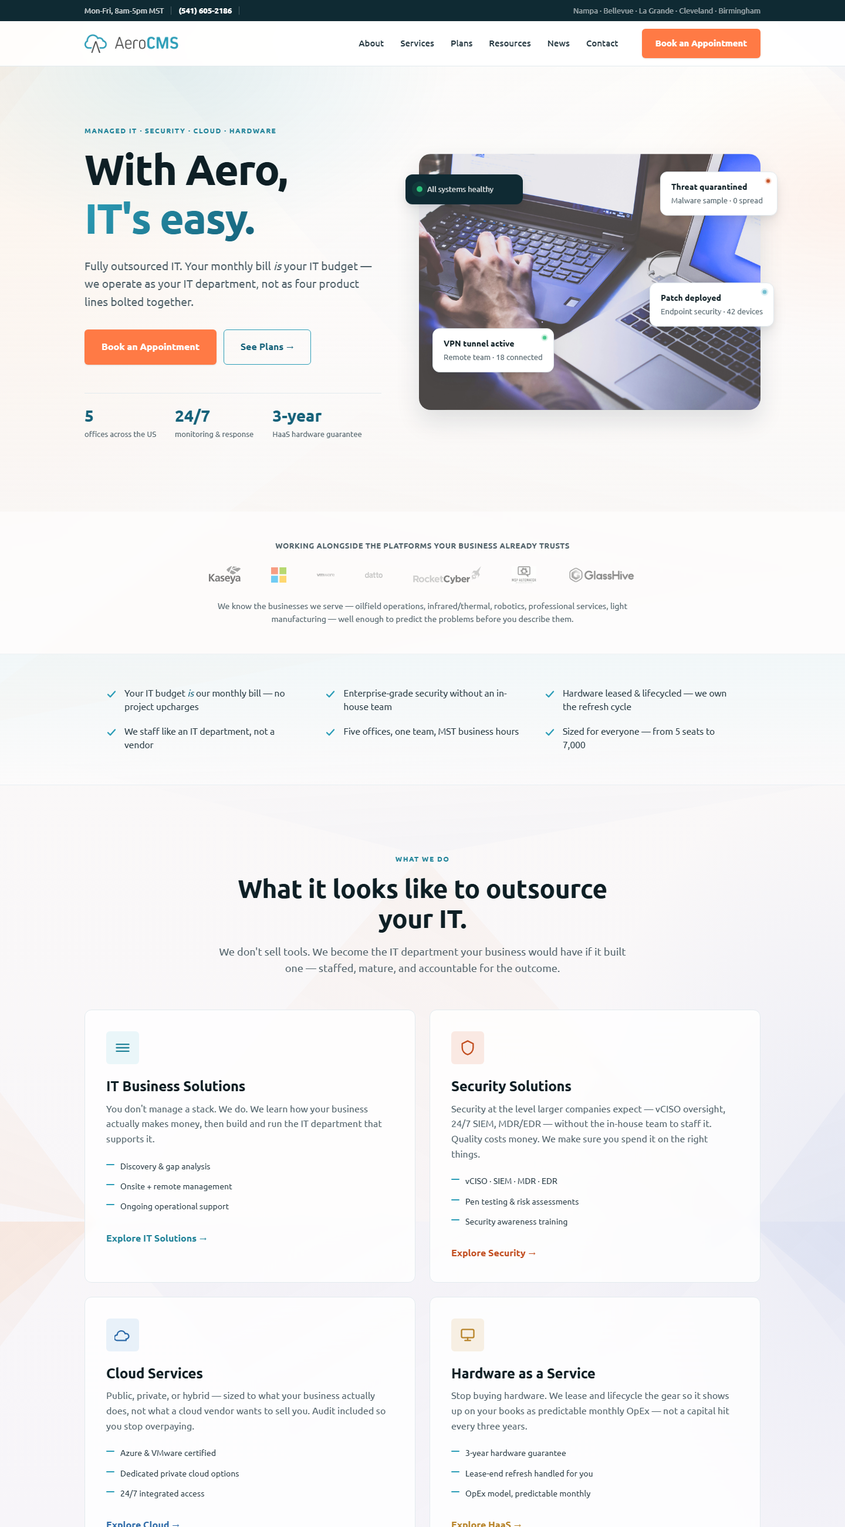
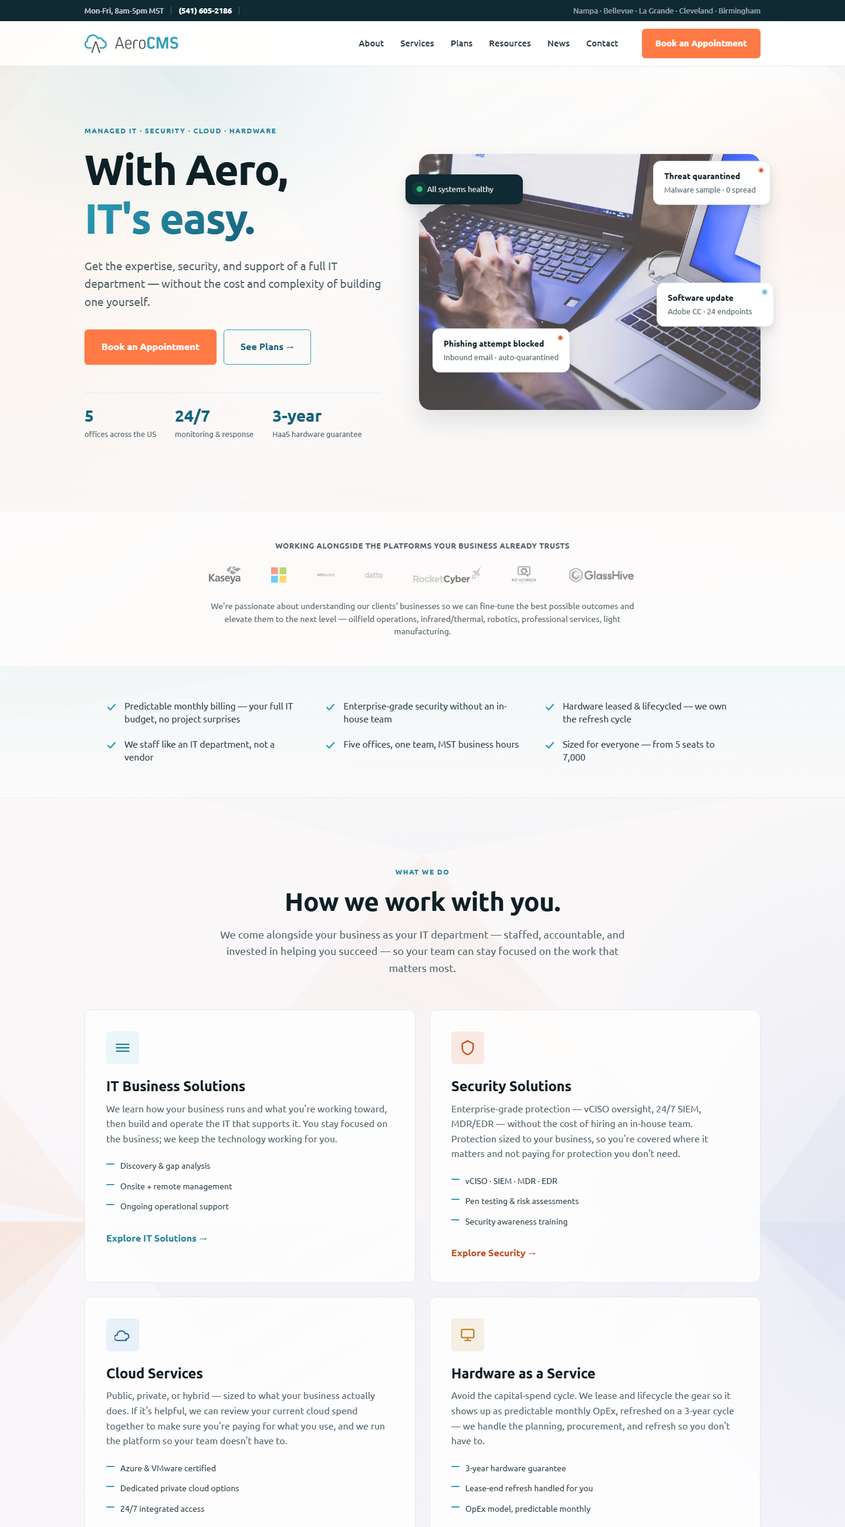
auto-snapshot 2026-05-28 23:55

diff --git a/index.html b/index.html
@@ -54,8 +54,8 @@
         With Aero, <span class="hero__title-accent">IT's easy.</span>
       </h1>
       <p class="hero__lead">
-        Fully outsourced IT. Your monthly bill <em>is</em> your IT budget &mdash; we operate as
-        your IT department, not as four product lines bolted together.
+        Get the expertise, security, and support of a full IT department &mdash; without the cost
+        and complexity of building one yourself.
       </p>
       <div class="hero__ctas">
         <a href="contact.html" class="btn btn--primary btn--lg">Book an Appointment</a>
@@ -107,7 +107,7 @@
       <img src="assets/vendors/benchmark365.jpg" alt="Benchmark 365" />
       <img src="assets/vendors/glasshive.avif" alt="GlassHive" />
     </div>
-    <p class="trust-strip__verticals">We know the businesses we serve &mdash; oilfield operations, infrared/thermal, robotics, professional services, light manufacturing &mdash; well enough to predict the problems before you describe them.</p>
+    <p class="trust-strip__verticals">We're passionate about understanding our clients' businesses so we can fine-tune the best possible outcomes and elevate them to the next level &mdash; oilfield operations, infrared/thermal, robotics, professional services, light manufacturing.</p>
   </div>
 </section>
 
@@ -117,7 +117,7 @@
     <ul class="value-strip__grid">
       <li class="value-strip__item">
         <svg class="value-strip__check" viewBox="0 0 20 20" aria-hidden="true"><path d="M4 10.5l4 4 8-9" fill="none" stroke="currentColor" stroke-width="2.4" stroke-linecap="round" stroke-linejoin="round"/></svg>
-        <span>Your IT budget <em>is</em> our monthly bill &mdash; no project upcharges</span>
+        <span>Predictable monthly billing &mdash; your full IT budget, no project surprises</span>
       </li>
       <li class="value-strip__item">
         <svg class="value-strip__check" viewBox="0 0 20 20" aria-hidden="true"><path d="M4 10.5l4 4 8-9" fill="none" stroke="currentColor" stroke-width="2.4" stroke-linecap="round" stroke-linejoin="round"/></svg>
@@ -148,8 +148,8 @@
   <div class="container">
     <div class="section-head">
       <span class="eyebrow">What we do</span>
-      <h2>What it looks like to outsource your IT.</h2>
-      <p>We don't sell tools. We become the IT department your business would have if it built one &mdash; staffed, mature, and accountable for the outcome.</p>
+      <h2>How we work with you.</h2>
+      <p>We come alongside your business as your IT department &mdash; staffed, accountable, and invested in helping you succeed &mdash; so your team can stay focused on the work that matters most.</p>
     </div>
     <div class="services__grid">
       <article class="service-card">
@@ -159,7 +159,7 @@
           </svg>
         </div>
         <h3>IT Business Solutions</h3>
-        <p>You don't manage a stack. We do. We learn how your business actually makes money, then build and run the IT department that supports it.</p>
+        <p>We learn how your business runs and what you're working toward, then build and operate the IT that supports it. You stay focused on the business; we keep the technology working for you.</p>
         <ul>
           <li>Discovery &amp; gap analysis</li>
           <li>Onsite + remote management</li>
@@ -175,7 +175,7 @@
           </svg>
         </div>
         <h3>Security Solutions</h3>
-        <p>Security at the level larger companies expect &mdash; vCISO oversight, 24/7 SIEM, MDR/EDR &mdash; without the in-house team to staff it. Quality costs money. We make sure you spend it on the right things.</p>
+        <p>Enterprise-grade protection &mdash; vCISO oversight, 24/7 SIEM, MDR/EDR &mdash; without the cost of hiring an in-house team. Protection sized to your business, so you're covered where it matters and not paying for protection you don't need.</p>
         <ul>
           <li>vCISO &middot; SIEM &middot; MDR &middot; EDR</li>
           <li>Pen testing &amp; risk assessments</li>
@@ -191,7 +191,7 @@
           </svg>
         </div>
         <h3>Cloud Services</h3>
-        <p>Public, private, or hybrid &mdash; sized to what your business actually does, not what a cloud vendor wants to sell you. Audit included so you stop overpaying.</p>
+        <p>Public, private, or hybrid &mdash; sized to what your business actually does. If it's helpful, we can review your current cloud spend together to make sure you're paying for what you use, and we run the platform so your team doesn't have to.</p>
         <ul>
           <li>Azure &amp; VMware certified</li>
           <li>Dedicated private cloud options</li>
@@ -208,7 +208,7 @@
           </svg>
         </div>
         <h3>Hardware as a Service</h3>
-        <p>Stop buying hardware. We lease and lifecycle the gear so it shows up on your books as predictable monthly OpEx &mdash; not a capital hit every three years.</p>
+        <p>Avoid the capital-spend cycle. We lease and lifecycle the gear so it shows up as predictable monthly OpEx, refreshed on a 3-year cycle &mdash; we handle the planning, procurement, and refresh so you don't have to.</p>
         <ul>
           <li>3-year hardware guarantee</li>
           <li>Lease-end refresh handled for you</li>
@@ -226,7 +226,7 @@
     <div class="section-head section-head--light">
       <span class="eyebrow eyebrow--light">Pick your altitude</span>
       <h2>Plans built around how much IT you want to own.</h2>
-      <p>We don't sell hours. We sell outcomes priced to match how much of your IT we're running. Lower tiers give you the stack and the phone number; Enterprise we build to fit. Kaseya User Bundle adds on top of any tier.</p>
+      <p>Pricing matches how much of your IT we're running. Lower tiers give you a solid foundation with support when you need it; Enterprise we build to fit your operation. Kaseya User Bundle adds on top of any tier.</p>
     </div>
     <div class="plans__grid">
       <article class="plan plan--good">
@@ -234,7 +234,7 @@
           <span class="plan__tier">Good</span>
           <h3>Essentials</h3>
         </header>
-        <p class="plan__desc">The IT floor every business should have. Convention over configuration &mdash; you get the stack, you get support when you need it.</p>
+        <p class="plan__desc">A solid IT foundation for any business. Convention over configuration &mdash; the standard stack, with support available when you need it.</p>
         <ul class="plan__features">
           <li>Kaseya tool stack</li>
           <li>Backups &amp; license management</li>
@@ -348,8 +348,8 @@
 <section class="cta-band" id="contact">
   <div class="container cta-band__inner">
     <div class="cta-band__copy">
-      <h2>Ready to outsource IT?</h2>
-      <p>Tell us what your business does &mdash; not what tech you think you need. We'll come back with what working with us actually looks like, and what it costs. If we're not a fit, no hard feelings.</p>
+      <h2>Let's talk about what we can do for you.</h2>
+      <p>Tell us about your business and what you're trying to accomplish. We'll come back with what working with us would look like and what it would cost &mdash; no obligation, no pressure.</p>
     </div>
     <form class="cta-form" onsubmit="event.preventDefault(); this.querySelector('button').textContent='Thanks! We’ll be in touch.';">
       <div class="cta-form__row">

diff --git a/resources.html b/resources.html
@@ -45,11 +45,11 @@
     <div class="page-hero__inner">
       <nav class="breadcrumb"><a href="index.html">Home</a><span class="breadcrumb__sep">&rsaquo;</span>Resources</nav>
       <span class="eyebrow eyebrow--light">Free tools and reading</span>
-      <h1 class="page-hero__title">Audit yourself before you commit.</h1>
+      <h1 class="page-hero__title">Free tools to explore your IT &mdash; on your own terms.</h1>
       <p class="page-hero__lead">
-        Calculators, checklists, ebooks, and webinars &mdash; built so you can size up your IT
-        without ever booking a sales call. Every resource here is the same one we'd hand a client.
-        No gates. No "talk to sales first" friction.
+        Calculators, checklists, ebooks, and webinars &mdash; built so you can take stock of your
+        IT without ever booking a sales call. Every resource here is the same one we'd share with
+        a client. No gates. No "talk to sales first" friction.
       </p>
     </div>
   </div>
@@ -88,7 +88,7 @@
         <a href="https://marketing.aerocms.sites.glasshivepages.com/hidden-expense-calculator" target="_blank" rel="noopener noreferrer" class="resource-tile">
           <svg class="resource-tile__icon" viewBox="0 0 24 24" fill="none" stroke="currentColor" stroke-width="1.5"><rect x="4" y="3" width="16" height="18" rx="2" /><path d="M8 8h8M8 12h8M8 16h5" stroke-linecap="round" /></svg>
           <h4>Hidden Expense Calculator</h4>
-          <p>Stop hidden IT costs from draining your profits. Shows where money leaks and how to recover it.</p>
+          <p>Find hidden IT costs that may be impacting your bottom line. Shows where money tends to leak &mdash; and how to recover it.</p>
           <span class="resource-tile__cta">Run the calculator &rarr;</span>
         </a>
         <a href="https://marketing.aerocms.sites.glasshivepages.com/excessive-spending-calculator" target="_blank" rel="noopener noreferrer" class="resource-tile">
@@ -198,7 +198,7 @@
         <a href="https://marketing.aerocms.sites.glasshivepages.com/cyber-hygiene-101-webinar" target="_blank" rel="noopener noreferrer" class="resource-tile">
           <svg class="resource-tile__icon" viewBox="0 0 24 24" fill="none" stroke="currentColor" stroke-width="1.5"><polygon points="5,3 19,12 5,21" stroke-linejoin="round" /></svg>
           <h4>Cyber Hygiene 101</h4>
-          <p>The basics most businesses get wrong. Password practices, MFA, patching, and incident response.</p>
+          <p>Foundational cyber hygiene, explained simply &mdash; password practices, MFA, patching, and incident response.</p>
           <span class="resource-tile__cta">Watch now &rarr;</span>
         </a>
         <a href="https://marketing.aerocms.sites.glasshivepages.com/aerocms-cloud-webinar" target="_blank" rel="noopener noreferrer" class="resource-tile">
@@ -210,7 +210,7 @@
         <a href="https://marketing.aerocms.sites.glasshivepages.com/common-pitfalls-in-cybersecurity-webinar" target="_blank" rel="noopener noreferrer" class="resource-tile">
           <svg class="resource-tile__icon" viewBox="0 0 24 24" fill="none" stroke="currentColor" stroke-width="1.5"><polygon points="5,3 19,12 5,21" stroke-linejoin="round" /></svg>
           <h4>Common Pitfalls in Cybersecurity</h4>
-          <p>The five mistakes we see most often when we audit prospective clients. And how to fix them.</p>
+          <p>Five common challenges we see when reviewing security setups &mdash; and practical fixes for each.</p>
           <span class="resource-tile__cta">Watch now &rarr;</span>
         </a>
       </div>
@@ -238,7 +238,7 @@
         <a href="https://marketing.aerocms.sites.glasshivepages.com/audit-it-provider" target="_blank" rel="noopener noreferrer" class="resource-tile">
           <svg class="resource-tile__icon" viewBox="0 0 24 24" fill="none" stroke="currentColor" stroke-width="1.5"><rect x="3" y="3" width="18" height="18" rx="2" /><path d="M9 12l2 2 4-4" stroke-linecap="round" stroke-linejoin="round" /></svg>
           <h4>Audit Your IT Provider</h4>
-          <p>Twenty questions to ask. Half of them will surprise even experienced buyers.</p>
+          <p>Twenty questions to ask &mdash; some you'd expect, and a few that may catch you off guard.</p>
           <span class="resource-tile__cta">View infographic &rarr;</span>
         </a>
         <a href="https://marketing.aerocms.sites.glasshivepages.com/aerocms-5fears-and-5benefits-of-the-cloud-infographic" target="_blank" rel="noopener noreferrer" class="resource-tile">
@@ -250,7 +250,7 @@
         <a href="https://marketing.aerocms.sites.glasshivepages.com/aerocms-switch-from-remote-to-hybrid" target="_blank" rel="noopener noreferrer" class="resource-tile">
           <svg class="resource-tile__icon" viewBox="0 0 24 24" fill="none" stroke="currentColor" stroke-width="1.5"><circle cx="12" cy="12" r="9" /><path d="M12 8v4l3 2" stroke-linecap="round" /></svg>
           <h4>Switch From Remote to Hybrid</h4>
-          <p>The operational shifts most companies underestimate when collapsing fully-remote to hybrid.</p>
+          <p>The operational shifts that often surprise teams transitioning from fully-remote to hybrid work.</p>
           <span class="resource-tile__cta">View infographic &rarr;</span>
         </a>
         <a href="https://marketing.aerocms.sites.glasshivepages.com/co-managed-it-services" target="_blank" rel="noopener noreferrer" class="resource-tile">

diff --git a/about.html b/about.html
@@ -49,11 +49,11 @@
     <div class="page-hero__inner">
       <nav class="breadcrumb"><a href="index.html">Home</a><span class="breadcrumb__sep">&rsaquo;</span>About</nav>
       <span class="eyebrow eyebrow--light">Who we are</span>
-      <h1 class="page-hero__title">An MSP that runs its own shop the way we tell you to run yours.</h1>
+      <h1 class="page-hero__title">Practitioners first. We hold our own operation to the same standards we'd set for yours.</h1>
       <p class="page-hero__lead">
         Aero Computer Management Solutions LLC. Managed services and HaaS provider headquartered
-        in Nampa, Idaho, with five offices across the country. Consultative by design: discover,
-        recommend, implement, then stay on.
+        in Nampa, Idaho, with five offices across the country. Consultative by design &mdash; we
+        listen first, plan with you, build the solution, and stay on as your team.
       </p>
     </div>
   </div>
@@ -83,7 +83,7 @@
       </div>
       <div class="split__content">
         <span class="eyebrow">Why we exist</span>
-        <h2>Boxed IT solutions don't fit every business. So we don't sell them.</h2>
+        <h2>Every business is different. We build IT around how yours actually works.</h2>
         <p>
           IT vendors hand clients a brochure of packages and ask them to pick one. It rarely works
           &mdash; either the package is too lean and the gaps get nickel-and-dimed, or it's too
@@ -105,7 +105,7 @@
   <div class="container">
     <div class="section-head">
       <span class="eyebrow">How we work</span>
-      <h2>Three things we won't compromise on.</h2>
+      <h2>Three things we promise.</h2>
     </div>
     <div class="value-grid">
       <article class="value-card">
@@ -273,7 +273,7 @@
     <div class="section-head">
       <span class="eyebrow">Our stack</span>
       <h2>The vendors behind the work.</h2>
-      <p>Enterprise-grade tools, deployed at human scale. These are the platforms we deploy, train on, and certify against.</p>
+      <p>Enterprise-grade tools, scaled to fit your business. These are the platforms we deploy, train on, and certify against.</p>
     </div>
     <div class="partners__grid">
       <a href="https://www.kaseya.com" target="_blank" rel="noopener noreferrer" class="partner-card" aria-label="Kaseya 365 (opens in new tab)">

diff --git a/services/security.html b/services/security.html
@@ -47,9 +47,9 @@
       <span class="eyebrow eyebrow--light">Service Pillar 02</span>
       <h1 class="page-hero__title">Security Solutions</h1>
       <p class="page-hero__lead">
-        To protect their data, many businesses install every security tool they can find. Often
-        they're paying for layers that already overlap. Our job is to find the right line &mdash;
-        enough protection, no waste &mdash; and stand behind it.
+        To protect their data, many businesses end up layering on every security tool they can
+        find &mdash; and the layers overlap. We help you find the right balance: enough protection
+        for what matters, without paying for what you don't need.
       </p>
       <div class="page-hero__ctas">
         <a href="../contact.html" class="btn btn--primary btn--lg">Talk to a Security Consultant</a>
@@ -135,13 +135,13 @@
         <span class="eyebrow">Free tool</span>
         <h2>Use our Hidden Expense Calculator first.</h2>
         <p>
-          Find out where your current security stack is leaking money &mdash; redundant tools,
-          lapsed licenses, vendor overlap. We built this calculator so prospective clients can
-          audit themselves before we ever quote.
+          See if your current security stack has redundant tools, lapsed licenses, or vendor
+          overlap. We built this calculator so you can review your own setup &mdash; no commitment
+          required, and we don't see the results unless you share them.
         </p>
         <p>
-          If you're spending in the right places, we'll tell you. If you're not, we'll show you
-          where the gaps are.
+          If you're spending in the right places, we'll be the first to say so. If there are gaps
+          worth closing, we'll help you understand them.
         </p>
         <a href="../resources.html" class="btn btn--primary">Run the audit &rarr;</a>
       </div>
@@ -157,7 +157,7 @@
 <section class="cta-strip">
   <div class="container cta-strip__inner">
     <div>
-      <h2>Get protected. Not overcharged.</h2>
+      <h2>Protection that fits your business.</h2>
       <p>Schedule a security consultation. We'll listen first, then recommend.</p>
     </div>
     <a href="../contact.html" class="btn btn--primary btn--lg">Book an Appointment</a>

diff --git a/services.html b/services.html
@@ -92,9 +92,9 @@
         <span class="eyebrow">For businesses protecting themselves</span>
         <h3>Security Solutions</h3>
         <p>
-          Multi-layer protection sized to your risk. From patch hygiene to virtual CISO oversight.
-          Most businesses are either underprotected or overspending on redundancy &mdash; our job
-          is to find the line.
+          Multi-layer protection sized to your business. From patch hygiene to virtual CISO
+          oversight. We help you find the right balance &mdash; properly protected where it
+          matters, without paying for redundancy you don't need.
         </p>
         <ul class="feature-list">
           <li>vCISO, SIEM, MDR, EDR coverage</li>
@@ -119,7 +119,8 @@
         <h3>Cloud Services</h3>
         <p>
           Shared, dedicated, or hybrid &mdash; on Azure or VMware. Remote-first by default, with a
-          spend audit before you commit so the migration reduces IT cost instead of expanding it.
+          complimentary spend review before you commit so the migration helps your bottom line
+          rather than adding to it.
         </p>
         <ul class="feature-list">
           <li>Microsoft Azure and VMware certified deployments</li>
@@ -135,8 +136,8 @@
         <span class="eyebrow">For businesses tired of capex hits</span>
         <h3>Hardware as a Service</h3>
         <p>
-          Lease, don't buy. Predictable monthly OpEx, a 3-year guarantee, lease-end refresh handled
-          for you, and rapid replacement when something fails.
+          A lighter alternative to capital purchases. Predictable monthly OpEx, a 3-year guarantee,
+          lease-end refresh handled for you, and rapid replacement when something fails.
         </p>
         <ul class="feature-list">
           <li>Computers, servers, networking, and business technology</li>
@@ -175,7 +176,7 @@
       <div class="process-step">
         <div class="process-step__num">3</div>
         <h3>Implement and manage</h3>
-        <p>Stand up the new stack, then operate it. AeroCMS is a comprehensive provider, not a one-time installer.</p>
+        <p>Stand up the new solution, then operate it as part of your team. We're with you for the long run, not just the install.</p>
       </div>
     </div>
   </div>

diff --git a/services/it-business.html b/services/it-business.html
@@ -47,9 +47,9 @@
       <span class="eyebrow eyebrow--light">Service Pillar 01</span>
       <h1 class="page-hero__title">IT Business Solutions</h1>
       <p class="page-hero__lead">
-        Full-spectrum IT consulting and managed delivery. No boxed solution that fits every
-        business &mdash; so we don't sell one. Learn the operation. Propose options. Implement
-        what you approve. Stay on as your team.
+        Full-spectrum IT consulting and managed delivery. Every business is different, so we
+        don't believe in one-size-fits-all. We learn your operation, propose options, implement
+        what you approve, and stay on as your team.
       </p>
       <div class="page-hero__ctas">
         <a href="../contact.html" class="btn btn--primary btn--lg">Book a Discovery Call</a>
@@ -65,7 +65,7 @@
     <div class="service-detail-layout">
       <div>
         <span class="eyebrow">Why this matters</span>
-        <h2>Boxed IT solutions don't fit every business.</h2>
+        <h2>Every business is different. We build IT around how yours actually works.</h2>
         <p>
           The IT stack a 12-person law firm needs looks nothing like the one a 60-person
           manufacturing shop runs. We start by understanding which one you are.
@@ -142,7 +142,7 @@
       <div class="process-step">
         <div class="process-step__num">3</div>
         <h3>Implementing the strategy</h3>
-        <p>Stand up the stack, then operate it. AeroCMS is a comprehensive provider, not a one-time installer.</p>
+        <p>Stand up the new solution, then operate it as part of your team. We're with you for the long run, not just the install.</p>
       </div>
     </div>
   </div>
@@ -152,7 +152,7 @@
 <section class="cta-strip">
   <div class="container cta-strip__inner">
     <div>
-      <h2>Let us take your business to the next level.</h2>
+      <h2>Ready to take your business to the next level?</h2>
       <p>Schedule a consultation. No pitch deck, no obligation &mdash; just a conversation about your IT.</p>
     </div>
     <a href="../contact.html" class="btn btn--primary btn--lg">Schedule an Appointment</a>

diff --git a/services/cloud.html b/services/cloud.html
@@ -47,9 +47,9 @@
       <span class="eyebrow eyebrow--light">Service Pillar 03</span>
       <h1 class="page-hero__title">Cloud Services</h1>
       <p class="page-hero__lead">
-        Migrating to the cloud increases security and saves you money &mdash; when it's sized right.
-        We help you skip the racks of in-house servers, work from anywhere, and avoid the
-        cloud-overspend that catches most businesses by year two.
+        Migrating to the cloud can increase security and reduce spend &mdash; when it's sized
+        right. We help you reduce your server-room footprint, enable remote work, and right-size
+        your cloud spend so the bill doesn't quietly grow over time.
       </p>
       <div class="page-hero__ctas">
         <a href="../contact.html" class="btn btn--primary btn--lg">Book a Cloud Consultation</a>
@@ -66,9 +66,9 @@
         <span class="eyebrow">The case for moving to cloud</span>
         <h2>Hardware costs, eliminated. Remote work, enabled.</h2>
         <p>
-          Cloud computing eliminates racks of in-house servers and the hardware spend behind them.
-          Employees work from anywhere. And security improves &mdash; enterprise providers spend
-          more on it than any individual business could.
+          Cloud computing reduces in-house server racks and the hardware spend behind them.
+          Employees work from anywhere. And security often improves &mdash; enterprise providers
+          spend more on it than most individual businesses can on their own.
         </p>
 
         <h3 style="margin-top:48px;">Two cloud paths we deploy</h3>
@@ -173,7 +173,7 @@
   <div class="container cta-strip__inner">
     <div>
       <h2>Comparing cloud providers? Already in?</h2>
-      <p>Either way &mdash; download our free excessive spending calculator. See how much you can save.</p>
+      <p>Either way &mdash; try our free spending calculator. See where there might be room to tighten things up.</p>
     </div>
     <a href="../contact.html" class="btn btn--primary btn--lg">Contact AeroCMS Now</a>
   </div>

diff --git a/plans.html b/plans.html
@@ -64,7 +64,7 @@
           <span class="plan__tier">Good</span>
           <h3>Essentials</h3>
         </header>
-        <p class="plan__desc">The IT floor every business should have. Convention over configuration &mdash; you get the stack, you get support when you need it.</p>
+        <p class="plan__desc">A solid IT foundation for any business. Convention over configuration &mdash; the standard stack, with support available when you need it.</p>
         <ul class="plan__features">
           <li>Kaseya tool stack</li>
           <li>Backups &amp; license management</li>
@@ -259,9 +259,9 @@
         <span class="eyebrow" style="color: var(--teal-300);">Good tier</span>
         <h2>Essentials.</h2>
         <p>
-          The IT floor every business should have. Convention over configuration &mdash; you get the
-          standard stack and pay for support when you need it. Predictable cost. No surprises on the
-          tool side.
+          A solid IT foundation for any business. Convention over configuration &mdash; the standard
+          stack with support available when you need it. Predictable cost. No surprises on the tool
+          side.
         </p>
         <p style="font-size:14px; color: var(--ink-500);">
           <strong>Best for:</strong> 5&ndash;25 seats, predictable workloads, a team that handles its

diff --git a/services/hardware.html b/services/hardware.html
@@ -156,7 +156,7 @@
 <section class="cta-strip">
   <div class="container cta-strip__inner">
     <div>
-      <h2>Contact an AeroCMS HaaS expert today.</h2>
+      <h2>Let's talk about your hardware refresh.</h2>
       <p>Tell us about your refresh cycle. We'll come back with a lease scenario.</p>
     </div>
     <a href="../contact.html" class="btn btn--primary btn--lg">Book an Appointment</a>
